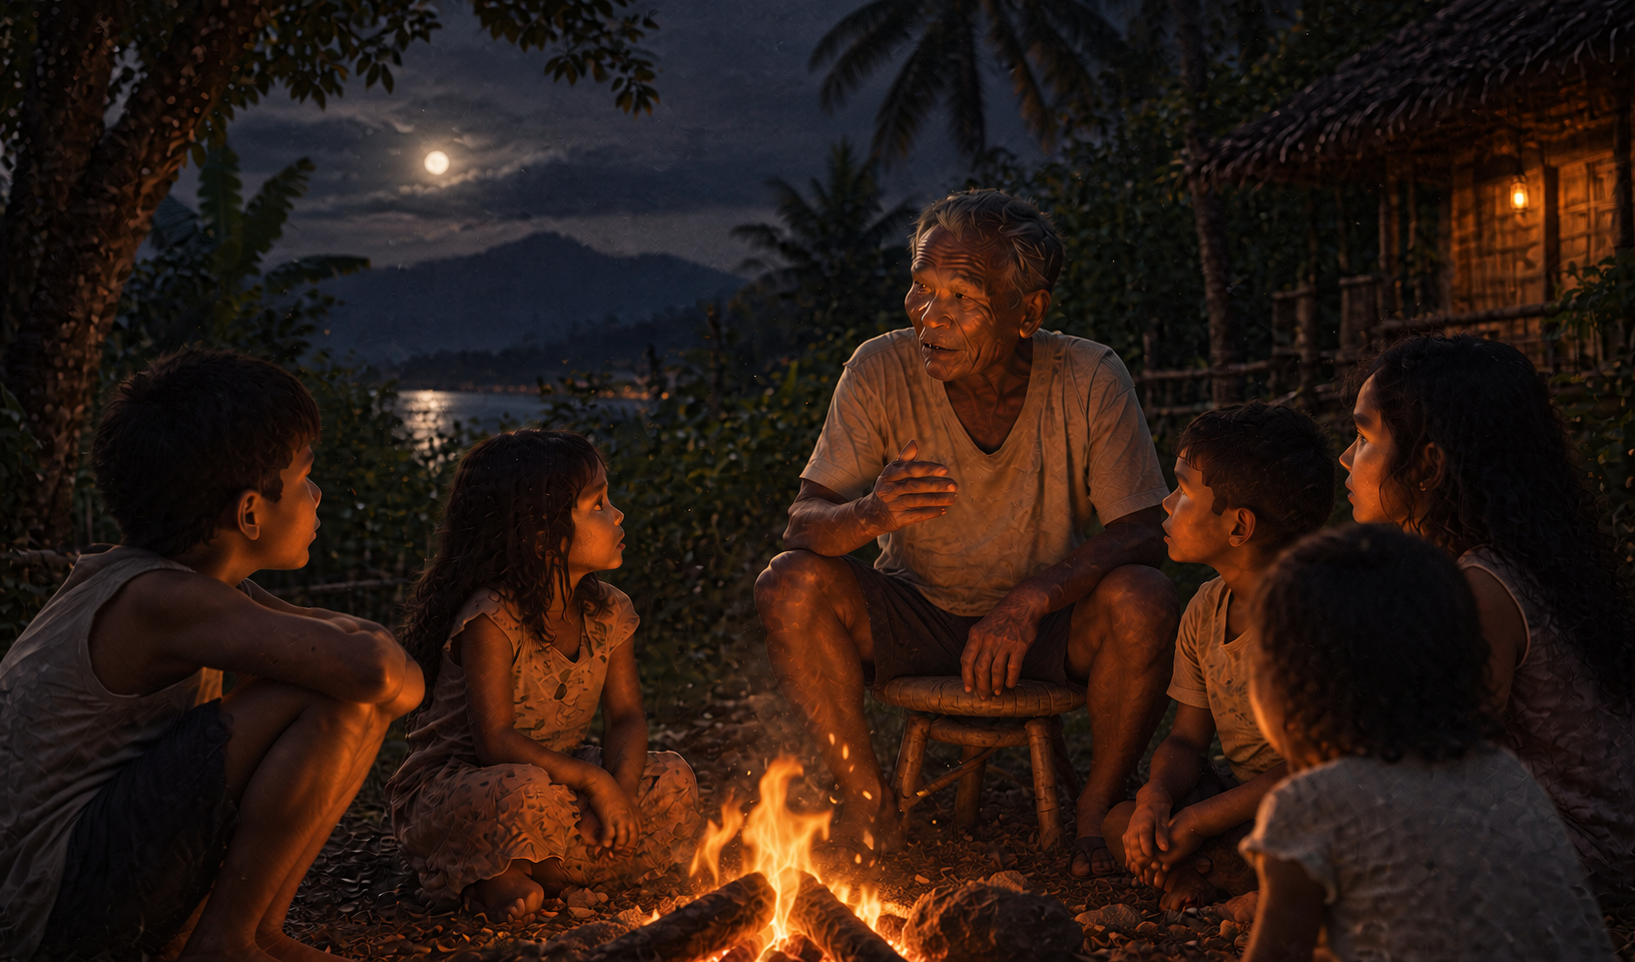
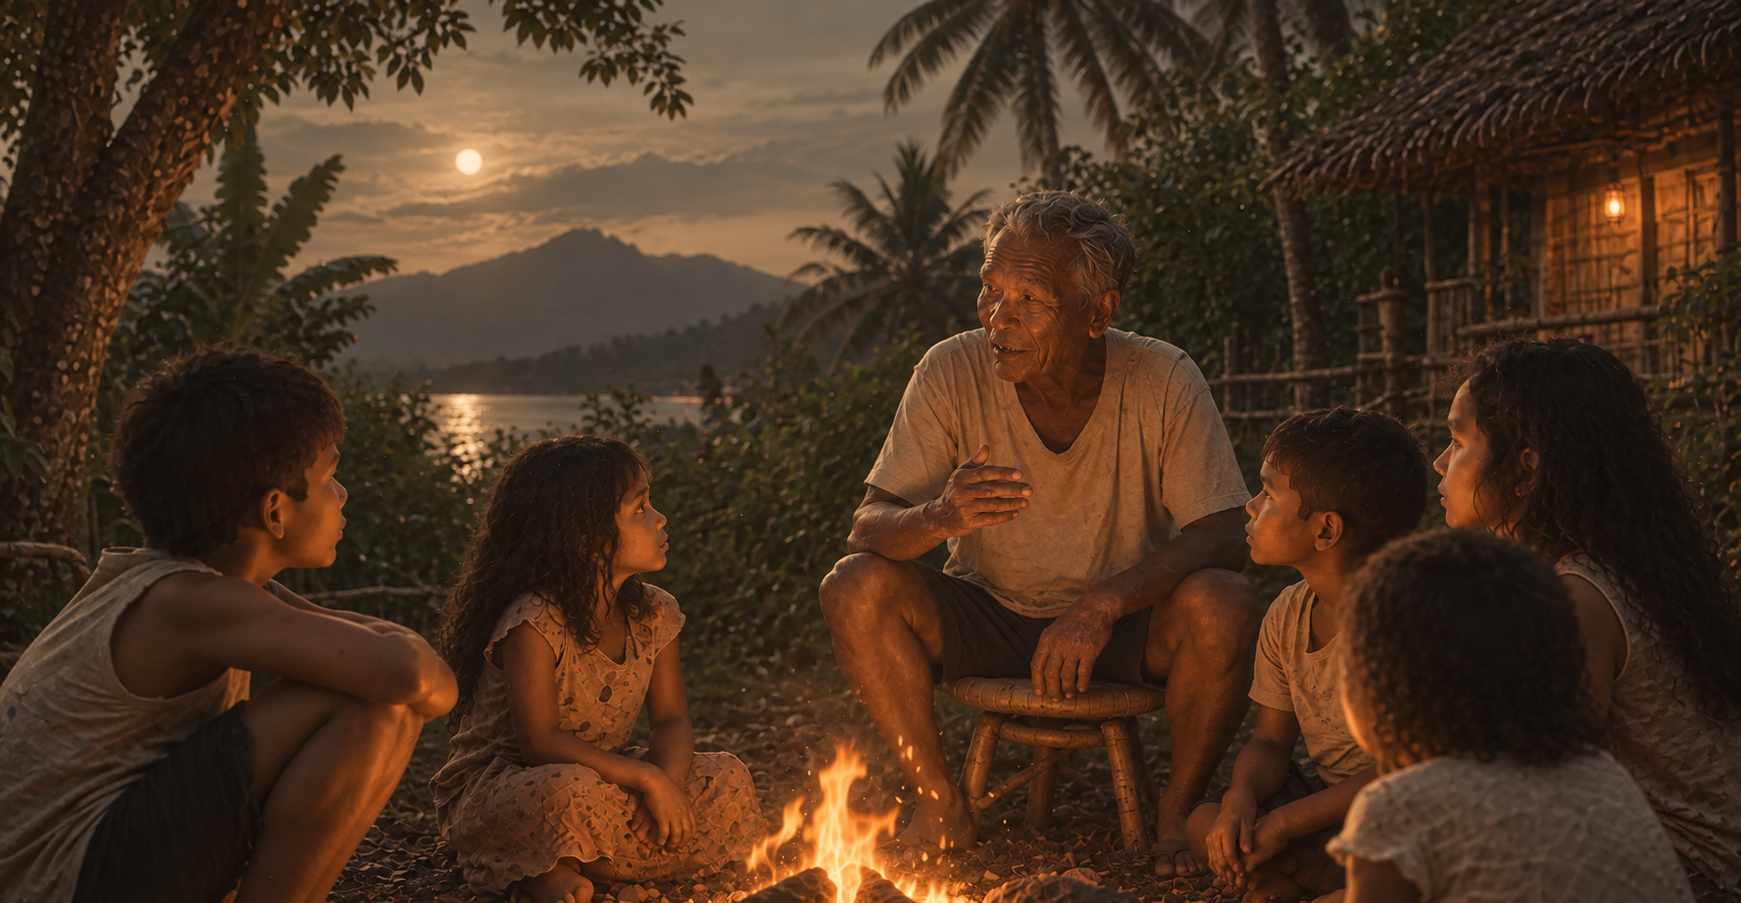
ui changes

diff --git a/components/layout/home/about.tsx b/components/layout/home/about.tsx
@@ -1,7 +1,8 @@
 import AboutImage1 from "@/assets/aboutImage1.png";
 import AboutImage2 from "@/assets/aboutImage2.png";
 import AboutImage3 from "@/assets/aboutImage3.png";
-import ScratchedImage from "@/assets/scratchedImage.png";
+import ScratchedImage1 from "@/assets/scratchedImage1.png";
+import ScratchedImage2 from "@/assets/scratchedImage2.png";
 import Image from "next/image";
 import Icon from "@/assets/icon.png";
 import { BiLeaf } from "react-icons/bi";
@@ -25,7 +26,7 @@ export default function About() {
   return (
     <div id="about" className="w-full py-16">
       <div className="relative w-full h-72">
-        <div className="inset-0 w-full h-72">
+        <div className="inset-0 w-full h-72 pointer-events-none">
           <Image
             src={AboutImage1}
             alt="About Image"
@@ -57,7 +58,7 @@ export default function About() {
         </div>
       </div>
       <div className="relative bg-olive w-full h-full">
-        <div className="inset-0 w-full h-auto opacity-15">
+        <div className="inset-0 w-full h-auto opacity-15 pointer-events-none">
           <Image
             src={AboutImage2}
             alt="About Image"
@@ -76,7 +77,9 @@ export default function About() {
             <div className="grid grid-cols-1 sm:grid-cols-3 gap-4 items-start divide-y sm:divide-y-0 sm:divide-x divide-(--color-panel)/60">
               <div className="relative p-4 w-fit flex flex-col items-center justify-center">
                 <div className="absolute top-4 left-12">
-                  <h1 className="text-(--color-bg)/80 text-lg leading-tight mt-2">01</h1>
+                  <h1 className="text-(--color-bg)/80 text-lg leading-tight mt-2">
+                    01
+                  </h1>
                 </div>
                 <div className="flex flex-col gap-2 items-center justify-center">
                   <BiLeaf className="text-4xl shrink-0 text-(--color-bg)/80" />
@@ -91,7 +94,9 @@ export default function About() {
               </div>
               <div className="relative p-4 w-fit flex flex-col items-center justify-center">
                 <div className="absolute top-4 left-12">
-                  <h1 className="text-(--color-bg)/80 text-lg leading-tight mt-2">02</h1>
+                  <h1 className="text-(--color-bg)/80 text-lg leading-tight mt-2">
+                    02
+                  </h1>
                 </div>
                 <div className="flex flex-col gap-2 items-center justify-center">
                   <BsHouseFill className="text-4xl shrink-0 text-(--color-bg)/80" />
@@ -107,7 +112,9 @@ export default function About() {
               </div>
               <div className="relative p-4 w-fit flex flex-col items-center justify-center">
                 <div className="absolute top-4 left-12">
-                  <h1 className="text-(--color-bg)/80 text-lg leading-tight mt-2">03</h1>
+                  <h1 className="text-(--color-bg)/80 text-lg leading-tight mt-2">
+                    03
+                  </h1>
                 </div>
                 <div className="flex flex-col gap-2 items-center justify-center">
                   <FaChildReaching className="text-4xl shrink-0 text-(--color-bg)/80" />
@@ -133,13 +140,25 @@ export default function About() {
           backgroundSize: "140px 140px",
         }}
       >
-        <div className="absolute top-1/2 -translate-y-1/2 -right-4 w-[70%] sm:w-[60%] md:w-1/2 h-auto">
-          <Image
-            src={ScratchedImage}
-            alt="About Image"
-            className="w-full h-full object-right"
-          />
+        <div className="absolute flex w-full top-1/2 -translate-y-1/2 -right-14 pointer-events-none">
+          <div className="flex w-full justify-end items-center">
+            <div className="w-[80%] sm:w-[60%] md:w-[40%] sm:mt-8 lg:mt-24 xl:mt-32 2xl:mt-44">
+              <Image
+                src={ScratchedImage1}
+                alt="About Image"
+                className="w-full h-auto object-cover"
+              />
+            </div>
+            <div className="w-[80%] sm:w-[60%] md:w-[40%] -ml-24 lg:-ml-32 xl:-ml-44 2xl:-ml-50">
+              <Image
+                src={ScratchedImage2}
+                alt="About Image"
+                className="w-full h-auto object-cover"
+              />
+            </div>
+          </div>
         </div>
+
         <div className="absolute inset-0 bg-linear-to-r from-(accent) via-(--color-accent) lg:via-(--color-accent)/10 to-transparent" />
         <div className="relative max-w-5xl p-8 md:px-16 lg:px-32 xl:px-64">
           <div className="flex gap-2 items-center">
@@ -161,7 +180,7 @@ export default function About() {
       </div>
 
       <div className="relative w-full bg-second  p-8 md:px-16 lg:px-32 xl:px-64">
-        <div className="inset-0 w-full h-auto opacity-15">
+        <div className="inset-0 w-full h-auto opacity-15 pointer-events-none">
           <Image
             src={AboutImage3}
             alt="About Image"
